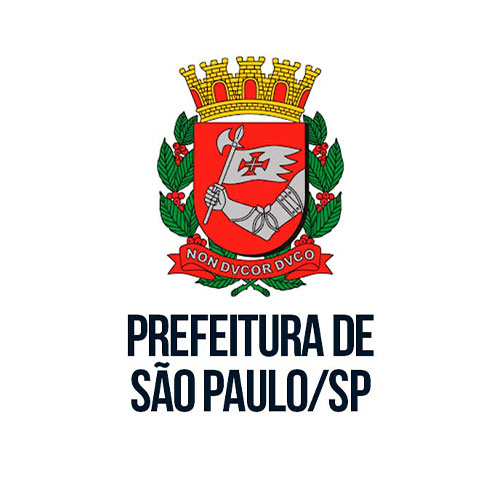
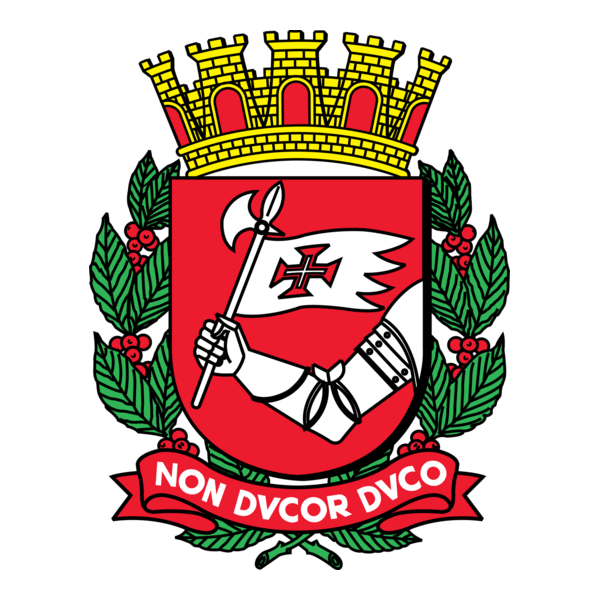
feat: update official coat of arms and stats cards
Replace brasao image and update statistics cards for visual consistency.

diff --git a/app/nota-fiscal/page.tsx b/app/nota-fiscal/page.tsx
@@ -374,12 +374,12 @@ export default function NotaFiscalPage() {
           <Card className="border-0 shadow-md bg-white">
             <CardContent className="p-4">
               <div className="flex items-center gap-3">
-                <div className="p-2 bg-amber-100 rounded-lg">
-                  <Clock className="h-5 w-5 text-amber-600" />
+                <div className="p-2 bg-red-100 rounded-lg">
+                  <XCircle className="h-5 w-5 text-red-600" />
                 </div>
                 <div>
-                  <p className="text-2xl font-bold text-amber-700">{stats.pendentes}</p>
-                  <p className="text-xs text-gray-500">Pendentes</p>
+                  <p className="text-2xl font-bold text-red-700">{stats.canceladas}</p>
+                  <p className="text-xs text-gray-500">Canceladas</p>
                 </div>
               </div>
             </CardContent>
@@ -387,11 +387,11 @@ export default function NotaFiscalPage() {
           <Card className="border-0 shadow-md bg-white">
             <CardContent className="p-4">
               <div className="flex items-center gap-3">
-                <div className="p-2 bg-red-100 rounded-lg">
-                  <AlertCircle className="h-5 w-5 text-red-600" />
+                <div className="p-2 bg-amber-100 rounded-lg">
+                  <AlertCircle className="h-5 w-5 text-amber-600" />
                 </div>
                 <div>
-                  <p className="text-2xl font-bold text-red-700">{stats.erros}</p>
+                  <p className="text-2xl font-bold text-amber-700">{stats.erros}</p>
                   <p className="text-xs text-gray-500">Erros</p>
                 </div>
               </div>
